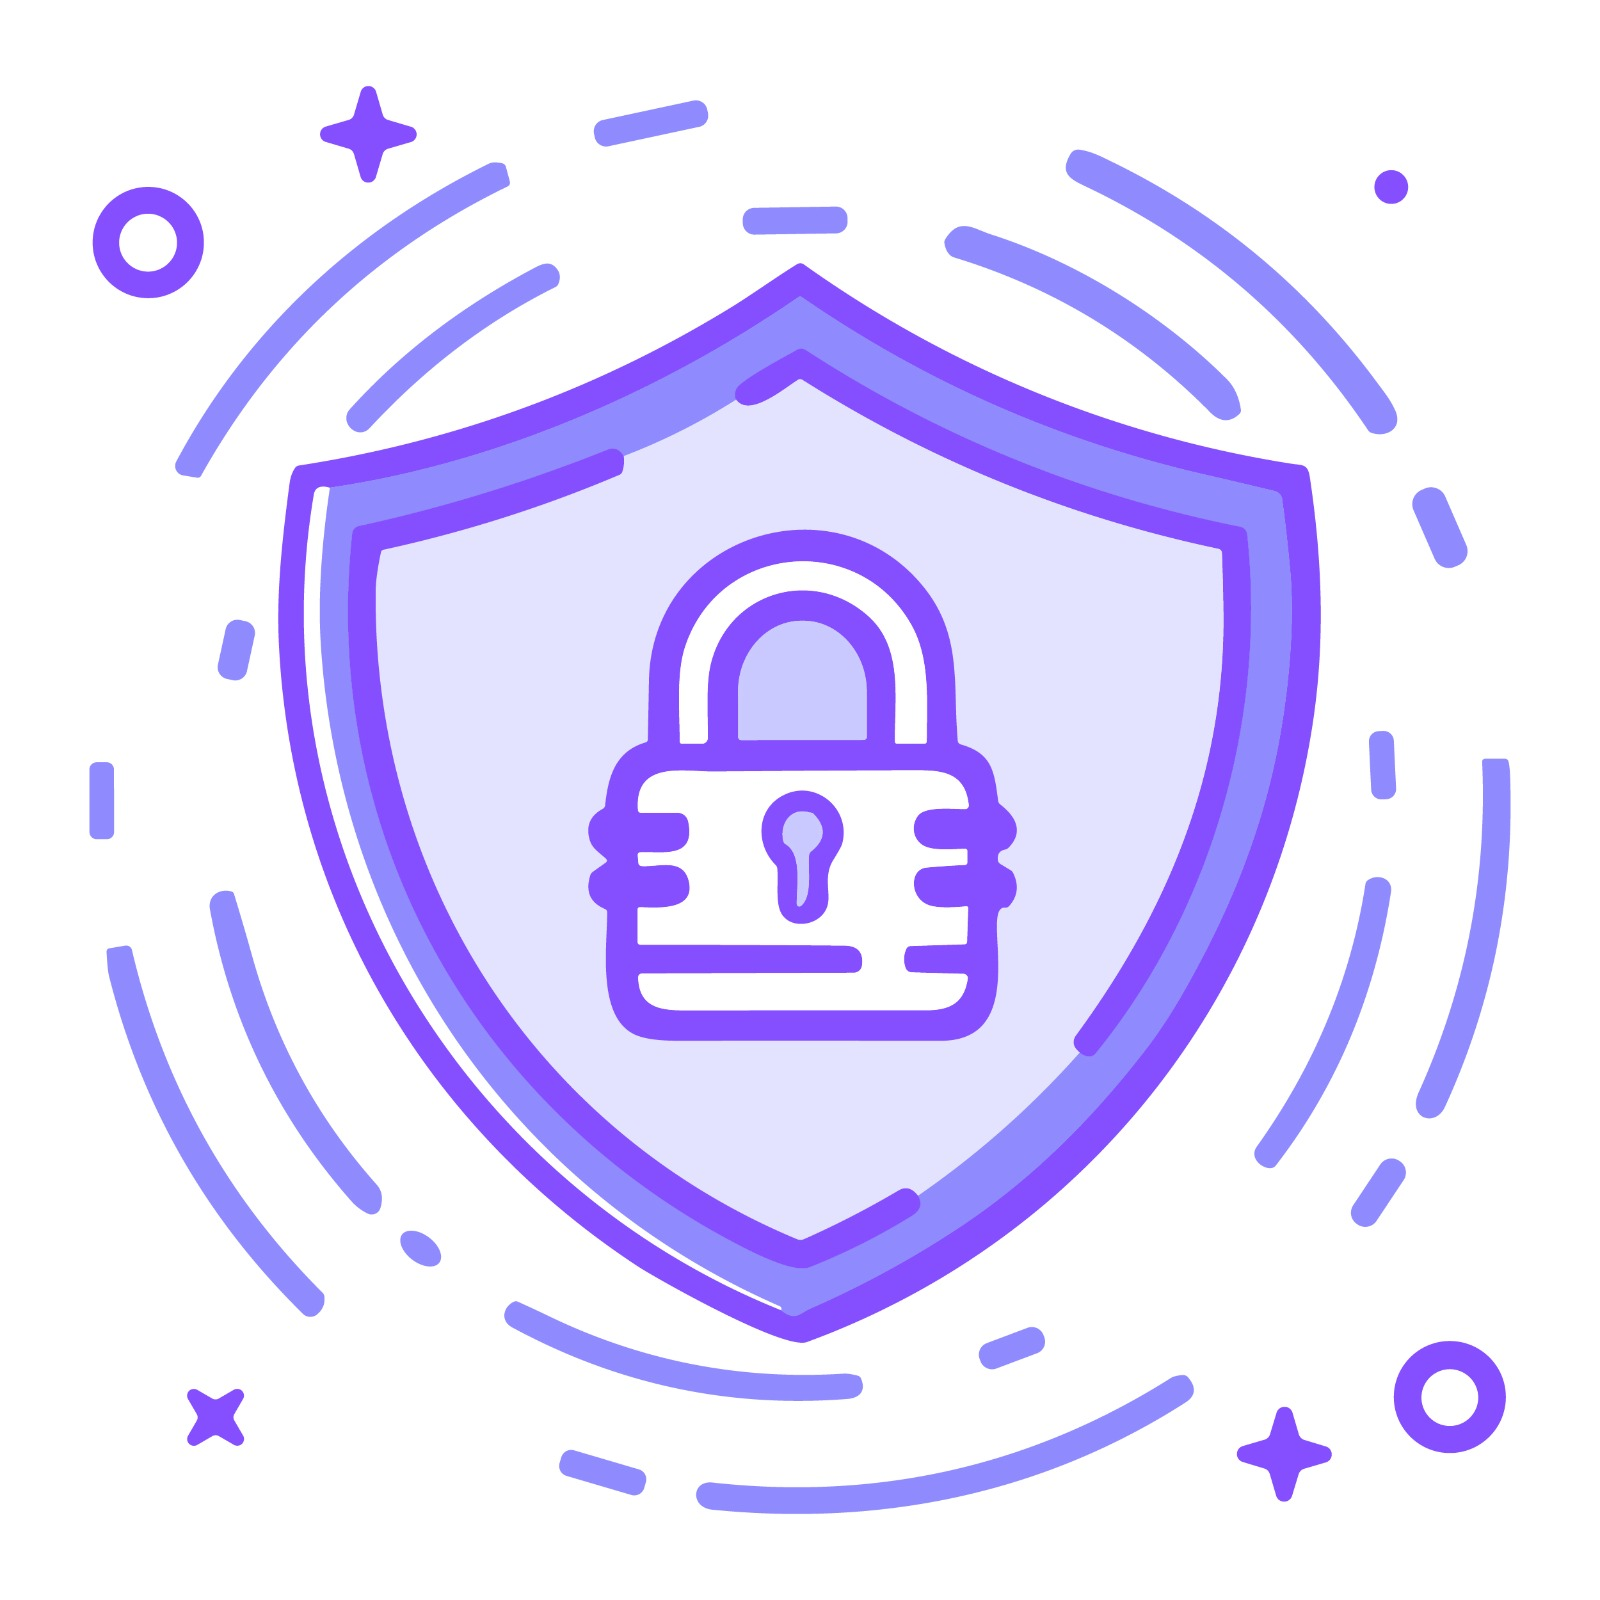
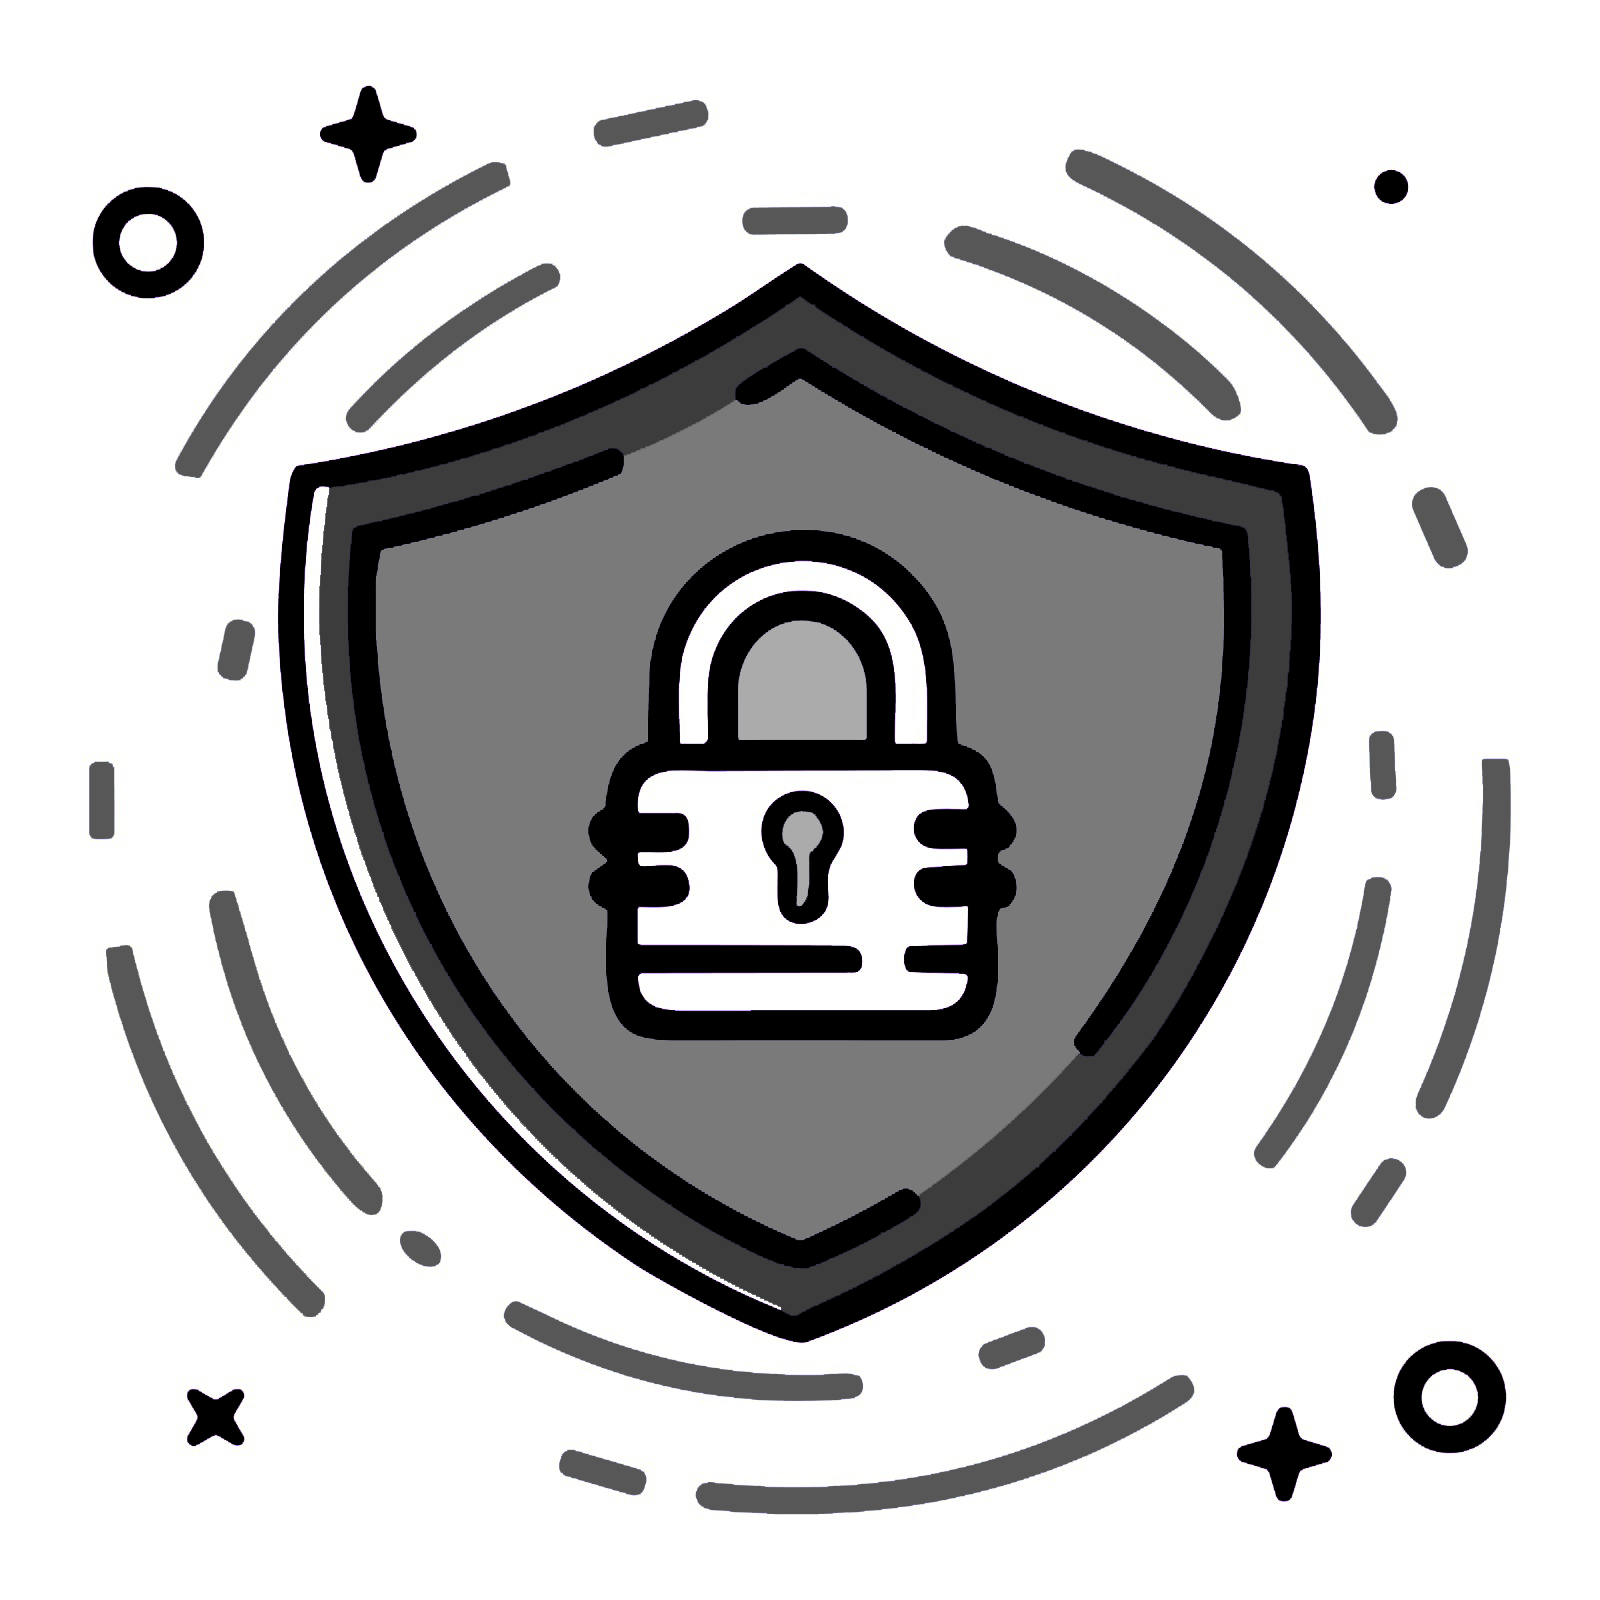
Update(dev): remove reference button and change the style of sheld

diff --git a/client/src/api/index.js b/client/src/api/index.js
@@ -115,9 +115,9 @@ export const customerInfo = async (dealer_id, customer_id) =>
 
 export const checkapp = async (data) => {
   console.log('this is appointment items ===>', data);
-  const url = 'https://dev.creditapps.com/api/app_status/';
+  const url = 'app_status/';
   try {
-    const response = await apis.post(url, data, {
+    const response = await apis.post(url,data, {
       headers: {
         'content-type': 'application/json',
       },
@@ -130,9 +130,9 @@ export const checkapp = async (data) => {
 
 export const appointment = async (data) => {
   console.log('this is appointment items ===>', data);
-  // const url = 'https://dev.creditapps.com/api/appointment/';
+  const url = 'appointment/';
   try {
-    const response = await apis.post(data, {
+    const response = await apis.post(url,data, {
       headers: {
         'content-type': 'application/json',
       },

diff --git a/client/src/pages/WebHome.jsx b/client/src/pages/WebHome.jsx
@@ -116,12 +116,12 @@ const WebHome = () => {
           >
             APPOINTMENT
           </button>
-          <button
+          {/* <button
             onClick={changePageReference}
             className="border-black border-2 rounded-md p-4 text-black hover:bg-black hover:text-white font-medium text-2xl my-1"
           >
             REFERENCE
-          </button>
+          </button> */}
           {/* <button
             onClick={changePageCheckApp}
             className="border-black border-2 rounded-md p-4 text-black hover:bg-black hover:text-white font-medium text-2xl my-1"
